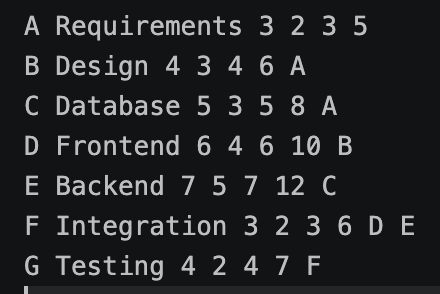
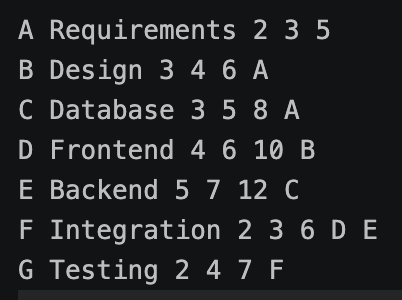
.

diff --git a/slides/presentation.html b/slides/presentation.html
@@ -1038,7 +1038,7 @@ body.notes-open .progress-bar {
                     <p>RACI matrix &mdash; each WBS package has one R/A owner; Integration had three Consulted (cross-module risk)</p>
                 </div>
                 <div class="reveal" style="display: flex; gap: 24px; margin-top: 16px; align-items: baseline;">
-                    <span class="mono-tag" style="opacity: 0.6;">Tuckman: entered sprint at Norming &mdash; C debate (Slide 7) = Storming episode</span>
+                    <span class="mono-tag" style="opacity: 0.6;">Tuckman: entered sprint at Norming &mdash; C debate (Slide 8) = Storming episode</span>
                 </div>
             </div>
             <div class="slide-bottom-rule"></div>
@@ -1224,67 +1224,33 @@ body.notes-open .progress-bar {
         <section class="slide" data-slide="5">
             <div class="slide-frame">
                 <div class="topbar reveal">
-                    <span class="headline">Float gave us rescue capacity</span>
-                    <span class="mono-tag">WBS + sprint schedule</span>
+                    <span class="headline">Allocated by strength, proven by outcome</span>
+                    <span class="mono-tag">expertise-fit + cross-checking</span>
                 </div>
-                <div class="two-col reveal" style="flex: 1;">
-                    <div>
-                        <div class="micro" style="margin-bottom: 16px;">Work Breakdown Structure</div>
-                        <div class="wbs-tree">
-                            <div style="font-family: var(--font-display); font-size: 22px; margin-bottom: 12px;">CPM Application</div>
-                            <div class="critical-item">&nbsp;&nbsp;├── Parser <span style="opacity:0.5">(Samuel)</span></div>
-                            <div class="critical-item">&nbsp;&nbsp;├── Algorithm <span style="opacity:0.5">(Jamie)</span></div>
-                            <div>&nbsp;&nbsp;├── Visualisation <span style="opacity:0.5">(Cole)</span></div>
-                            <div>&nbsp;&nbsp;├── Tests <span style="opacity:0.5">(Samuel)</span></div>
-                            <div class="critical-item">&nbsp;&nbsp;└── Integration <span style="opacity:0.5">(Hamza)</span></div>
-                        </div>
-                        <div class="insight-box" style="margin-top: 24px;">
-                            <p>Critical Path: Parser &rarr; Algorithm &rarr; Integration = 10h sequential</p>
-                        </div>
+                <div class="reflection-grid reveal">
+                    <div class="reflection-card">
+                        <div class="card-name">Cole &mdash; RayLib UI / Rendering</div>
+                        <div class="card-assumption">Why: prior RayLib projects</div>
+                        <div class="card-theory">Early feedback loop &mdash; visual output as a test surface</div>
+                        <div class="card-action">Outcome: fast UI build gave Jamie&rsquo;s CPM logic a visual check, catching mistakes text output alone would have missed</div>
                     </div>
-                    <div>
-                        <div class="micro" style="margin-bottom: 16px;">Sprint Schedule (2 Days)</div>
-                        <div class="gantt">
-                            <div class="gantt-header">
-                                <div></div>
-                                <div class="gantt-time-labels">
-                                    <span>D1 AM</span>
-                                    <span>D1 PM</span>
-                                    <span>D2 AM</span>
-                                    <span>D2 PM</span>
-                                </div>
-                            </div>
-                            <div class="gantt-row">
-                                <div class="gantt-label">Parser (Samuel)</div>
-                                <div class="gantt-bar-container">
-                                    <div class="gantt-bar critical" style="left: 0%; width: 50%;"></div>
-                                </div>
-                            </div>
-                            <div class="gantt-row">
-                                <div class="gantt-label">Algorithm (Jamie)</div>
-                                <div class="gantt-bar-container">
-                                    <div class="gantt-bar critical" style="left: 0%; width: 62%;"></div>
-                                </div>
-                            </div>
-                            <div class="gantt-row">
-                                <div class="gantt-label">Tests (Samuel)</div>
-                                <div class="gantt-bar-container">
-                                    <div class="gantt-bar" style="left: 50%; width: 38%;"></div>
-                                </div>
-                            </div>
-                            <div class="gantt-row">
-                                <div class="gantt-label">Visualisation (Cole)</div>
-                                <div class="gantt-bar-container">
-                                    <div class="gantt-bar" style="left: 0%; width: 80%;"></div>
-                                </div>
-                            </div>
-                            <div class="gantt-row">
-                                <div class="gantt-label">Integration (Hamza)</div>
-                                <div class="gantt-bar-container">
-                                    <div class="gantt-bar critical" style="left: 50%; width: 50%;"></div>
-                                </div>
-                            </div>
-                        </div>
+                    <div class="reflection-card">
+                        <div class="card-name">Jamie &mdash; CPM Implementation</div>
+                        <div class="card-assumption">Why: prior CPM research</div>
+                        <div class="card-theory">MoSCoW &mdash; input UI marked Won&rsquo;t</div>
+                        <div class="card-action">Outcome: flagged input UI as MVP scope creep, argued against consensus, held the team to a minimal MVP</div>
+                    </div>
+                    <div class="reflection-card">
+                        <div class="card-name">Samuel &mdash; Parsing + Tests</div>
+                        <div class="card-assumption">Why: experience writing unit tests</div>
+                        <div class="card-theory">Defect discovery as a quality gate</div>
+                        <div class="card-action">Outcome: tests caught a duration-value edge case; fixed as a team before it reached integration</div>
+                    </div>
+                    <div class="reflection-card">
+                        <div class="card-name">Hamza &mdash; Orchestration</div>
+                        <div class="card-assumption">Why: broad technical understanding suits QA</div>
+                        <div class="card-theory">Cross-module integration check</div>
+                        <div class="card-action">Outcome: spotted Jamie&rsquo;s CPM types diverging from Cole&rsquo;s rendering types, unifying the codebase before it broke</div>
                     </div>
                 </div>
             </div>
@@ -1298,93 +1264,36 @@ body.notes-open .progress-bar {
         <section class="slide" data-slide="6">
             <div class="slide-frame">
                 <div class="topbar reveal">
-                    <span class="headline">Fixed time meant scope had to flex</span>
-                    <span class="mono-tag">iron triangle + MoSCoW</span>
+                    <span class="headline">Three decisions that shaped the team</span>
+                    <span class="mono-tag">decision-making + teamwork evidence</span>
                 </div>
-                <div class="two-col reveal" style="flex: 1;">
-                    <div>
-                        <table class="data-table" style="font-size: 15px;">
-                            <thead>
-                                <tr>
-                                    <th>Decision</th>
-                                    <th>What We Did</th>
-                                    <th>PM Justification</th>
-                                </tr>
-                            </thead>
-                            <tbody>
-                                <tr>
-                                    <td class="serif" style="font-size: 18px;">Language</td>
-                                    <td>C over Python &amp; JS</td>
-                                    <td style="font-size: 15px;">Iron Triangle: accepted higher time for deeper understanding</td>
-                                </tr>
-                                <tr>
-                                    <td class="serif" style="font-size: 18px;">Scope</td>
-                                    <td>MoSCoW prioritisation</td>
-                                    <td style="font-size: 15px;">Fixed time &rarr; scope must flex</td>
-                                </tr>
-                                <tr>
-                                    <td class="serif" style="font-size: 18px;">Estimation</td>
-                                    <td>Expert judgement + bottom-up</td>
-                                    <td style="font-size: 15px;">Each person estimated their own WBS package</td>
-                                </tr>
-                            </tbody>
-                        </table>
-                        <div class="moscow-visual" style="margin-top: 24px;">
-                            <div class="moscow-item must">Must: CPM + Parser</div>
-                            <div class="moscow-item should">Should: Visualisation</div>
-                            <div class="moscow-item could">Could: PERT &mdash; delivered</div>
-                            <div class="moscow-item wont">Won't: GUI Input</div>
-                        </div>
-                        <div class="mono-tag" style="opacity: 0.6; margin-top: 16px;">CHAOS Report: 66% of projects fail; 43% avg cost overrun (Standish Group, 2003)</div>
-                    </div>
-                    <div>
-                        <div class="micro" style="margin-bottom: 16px;">Estimation vs Reality</div>
-                        <!-- Parser -->
-                        <div style="margin-bottom: 28px;">
-                            <div style="display: flex; align-items: baseline; gap: 12px; margin-bottom: 8px;">
-                                <span class="mono-tag">Parser (Samuel)</span>
-                                <span style="font-family: var(--font-display); font-size: 48px; font-weight: 400; color: var(--ink);">+200%</span>
-                            </div>
-                            <div style="position: relative; height: 20px; width: 100%; background: var(--ink-grid);">
-                                <div style="position: absolute; left: 0; top: 0; height: 100%; width: 75%; background: var(--ink);"></div>
-                                <div style="position: absolute; left: 25%; top: -4px; bottom: -4px; width: 2px; background: var(--paper); box-shadow: 0 0 0 1px var(--ink);"></div>
-                            </div>
-                            <div style="display: flex; justify-content: space-between; margin-top: 4px;">
-                                <span class="mono-chrome">est: 1h</span>
-                                <span class="mono-chrome">actual: 3h</span>
-                            </div>
-                        </div>
-                        <!-- Algorithm -->
-                        <div style="margin-bottom: 28px;">
-                            <div style="display: flex; align-items: baseline; gap: 12px; margin-bottom: 8px;">
-                                <span class="mono-tag">Algorithm (Jamie)</span>
-                                <span style="font-family: var(--font-display); font-size: 48px; font-weight: 400; color: var(--ink);">+33%</span>
-                            </div>
-                            <div style="position: relative; height: 20px; width: 100%; background: var(--ink-grid);">
-                                <div style="position: absolute; left: 0; top: 0; height: 100%; width: 100%; background: var(--ink);"></div>
-                                <div style="position: absolute; left: 75%; top: -4px; bottom: -4px; width: 2px; background: var(--paper); box-shadow: 0 0 0 1px var(--ink);"></div>
-                            </div>
-                            <div style="display: flex; justify-content: space-between; margin-top: 4px;">
-                                <span class="mono-chrome">est: 3h</span>
-                                <span class="mono-chrome">actual: 4h</span>
-                            </div>
-                        </div>
-                        <!-- Visualisation -->
-                        <div>
-                            <div style="display: flex; align-items: baseline; gap: 12px; margin-bottom: 8px;">
-                                <span class="mono-tag">Visualisation (Cole)</span>
-                                <span style="font-family: var(--font-display); font-size: 48px; font-weight: 400; color: var(--ink);">+25%</span>
-                            </div>
-                            <div style="position: relative; height: 20px; width: 100%; background: var(--ink-grid);">
-                                <div style="position: absolute; left: 0; top: 0; height: 100%; width: 63%; background: var(--ink);"></div>
-                                <div style="position: absolute; left: 50%; top: -4px; bottom: -4px; width: 2px; background: var(--paper); box-shadow: 0 0 0 1px var(--ink);"></div>
-                            </div>
-                            <div style="display: flex; justify-content: space-between; margin-top: 4px;">
-                                <span class="mono-chrome">est: 2h</span>
-                                <span class="mono-chrome">actual: 2.5h</span>
-                            </div>
-                        </div>
-                    </div>
+                <div class="reveal">
+                    <table class="data-table" style="font-size: 15px;">
+                        <thead>
+                            <tr>
+                                <th>Decision</th>
+                                <th>What We Did</th>
+                                <th>Why It Mattered</th>
+                            </tr>
+                        </thead>
+                        <tbody>
+                            <tr>
+                                <td class="serif" style="font-size: 18px;">Struct design</td>
+                                <td>Split <code>Activity</code> into input and output structs before the CPM pass: <code>Activity</code> &rarr; <code>Activity</code> + <code>CPMResult</code></td>
+                                <td style="font-size: 15px;">Made early, before Jamie and Cole's work could drift apart &mdash; proactive risk management instead of an integration fix later</td>
+                            </tr>
+                            <tr>
+                                <td class="serif" style="font-size: 18px;">File format</td>
+                                <td>Chose raw TXT over JSON</td>
+                                <td style="font-size: 15px;">Weighed flexibility against schedule risk and picked the option that protected the deadline &mdash; simplicity over a nice-to-have</td>
+                            </tr>
+                            <tr>
+                                <td class="serif" style="font-size: 18px;">Language</td>
+                                <td>Stuck with C, despite recognising in hindsight we wouldn&rsquo;t choose it again</td>
+                                <td style="font-size: 15px;">A conscious, team-owned sunk-cost call &mdash; we named the cost openly rather than letting it go unspoken, and committed to it together</td>
+                            </tr>
+                        </tbody>
+                    </table>
                 </div>
             </div>
             <div class="slide-bottom-rule"></div>
@@ -1392,9 +1301,31 @@ body.notes-open .progress-bar {
         </section>
 
         <!-- ===========================
-             SLIDE 7: CHALLENGES
+             SLIDE 7: PROOF OF WORK
              =========================== -->
         <section class="slide" data-slide="7">
+            <div class="slide-frame">
+                <div class="topbar reveal">
+                    <span class="headline">Proof of work</span>
+                    <span class="mono-tag">commits &bull; kanban &bull; PRs</span>
+                </div>
+
+                <div class="reveal" style="flex: 1; display: flex; flex-direction: column; align-items: center; justify-content: center; gap: 24px;">
+                    <img src="../screenshots/commits.png" alt="Commit history" style="display: block; width: auto; height: 420px; max-width: 100%; border: 1.5px solid var(--ink);">
+                    <div style="display: flex; gap: 24px; align-items: flex-start; justify-content: center;">
+                        <img src="../screenshots/kanban.png" alt="Kanban board" style="display: block; width: auto; height: 320px; max-width: 100%; border: 1.5px solid var(--ink);">
+                        <img src="../screenshots/pr_merged.png" alt="Merged pull request" style="display: block; width: auto; height: 320px; max-width: 100%; border: 1.5px solid var(--ink);">
+                    </div>
+                </div>
+            </div>
+            <div class="slide-bottom-rule"></div>
+            <span class="pagenum">007</span>
+        </section>
+
+        <!-- ===========================
+             SLIDE 8: CHALLENGES
+             =========================== -->
+        <section class="slide" data-slide="8">
             <div class="slide-frame">
                 <div class="topbar reveal">
                     <span class="headline">Trust let us resolve conflict</span>
@@ -1409,8 +1340,8 @@ body.notes-open .progress-bar {
                                 &rarr; Prevented integration conflicts entirely
                             </div>
                             <div class="body-lede" style="line-height: 1.7; margin-top: 12px;">
-                                <strong>JSON vs CSV spike</strong> (20 mins)<br>
-                                &rarr; Saved ~2&ndash;3 hours rework
+                                <strong>TXT vs JSON spike</strong> (20 mins)<br>
+                                &rarr; Simpler parser, saved ~2&ndash;3 hours rework
                             </div>
                         </div>
                         <div>
@@ -1450,13 +1381,13 @@ body.notes-open .progress-bar {
                 </div>
             </div>
             <div class="slide-bottom-rule"></div>
-            <span class="pagenum">007</span>
+            <span class="pagenum">008</span>
         </section>
 
         <!-- ===========================
-             SLIDE 8: TEAM REFLECTION
+             SLIDE 9: TEAM REFLECTION
              =========================== -->
-        <section class="slide" data-slide="8">
+        <section class="slide" data-slide="9">
             <div class="slide-frame">
                 <div class="topbar reveal">
                     <span class="headline">We split the work but not the knowledge</span>
@@ -1493,13 +1424,13 @@ body.notes-open .progress-bar {
                 </div>
             </div>
             <div class="slide-bottom-rule"></div>
-            <span class="pagenum">008</span>
+            <span class="pagenum">009</span>
         </section>
 
         <!-- ===========================
-             SLIDE 9: SUMMARY & CLOSING
+             SLIDE 10: SUMMARY & CLOSING
              =========================== -->
-        <section class="slide" data-slide="9">
+        <section class="slide" data-slide="10">
             <div class="slide-frame" style="justify-content: center;">
                 <div class="reveal">
                     <div class="micro" style="margin-bottom: 32px;">Summary</div>
@@ -1536,13 +1467,13 @@ body.notes-open .progress-bar {
                 <div class="pixel-glitch-bar" style="top: 940px; width: 200px; height: 70px;"></div>
             </div>
             <div class="slide-bottom-rule"></div>
-            <span class="pagenum">009</span>
+            <span class="pagenum">010</span>
         </section>
 
         <!-- ===========================
-             SLIDE 10: REFERENCES
+             SLIDE 11: REFERENCES
              =========================== -->
-        <section class="slide" data-slide="10">
+        <section class="slide" data-slide="11">
             <div class="slide-frame">
                 <div class="topbar reveal">
                     <span class="headline">References</span>
@@ -1562,13 +1493,13 @@ body.notes-open .progress-bar {
                 </ol>
             </div>
             <div class="slide-bottom-rule"></div>
-            <span class="pagenum">010</span>
+            <span class="pagenum">011</span>
         </section>
 
         <!-- ===========================
-             SLIDE 11: Q&A PREPARATION
+             SLIDE 12: Q&A PREPARATION
              =========================== -->
-        <section class="slide" data-slide="11">
+        <section class="slide" data-slide="12">
             <div class="slide-frame">
                 <div class="topbar reveal">
                     <span class="headline">Q&amp;A Preparation</span>
@@ -1622,7 +1553,7 @@ body.notes-open .progress-bar {
                 </div>
             </div>
             <div class="slide-bottom-rule"></div>
-            <span class="pagenum">011</span>
+            <span class="pagenum">012</span>
         </section>
 
     </main>
@@ -1827,7 +1758,7 @@ const speakerNotes = [
     },
     {
         speaker: "Samuel | 55 seconds",
-        notes: "We picked roles based on strengths — Jamie knew CPM, Cole had RayLib experience, Hamza was sharp at cross-module issues, and I knew the team well enough to coordinate. The RACI made ownership explicit, especially integration where three people were Consulted.\n\nIn Tuckman's terms, we entered the sprint at Norming — we'd already formed in a previous module and trust was established. The C debate you'll see on Slide 7 was our Storming moment, which actually strengthened agreements.\n\nWhen my parser overran, Cole picked up testing because his float allowed it. The Belbin roles are retrospective — but what mattered was adapting: first stand-up ran 25 minutes, so we halved it. Hamza shifted to cover integration testing once we spotted nobody naturally filled that quality-checking role."
+        notes: "We picked roles based on strengths — Jamie knew CPM, Cole had RayLib experience, Hamza was sharp at cross-module issues, and I knew the team well enough to coordinate. The RACI made ownership explicit, especially integration where three people were Consulted.\n\nIn Tuckman's terms, we entered the sprint at Norming — we'd already formed in a previous module and trust was established. The C debate you'll see on Slide 8 was our Storming moment, which actually strengthened agreements.\n\nWhen my parser overran, Cole picked up testing because his float allowed it. The Belbin roles are retrospective — but what mattered was adapting: first stand-up ran 25 minutes, so we halved it. Hamza shifted to cover integration testing once we spotted nobody naturally filled that quality-checking role."
     },
     {
         speaker: "Jamie | 1 minute",
@@ -1839,11 +1770,15 @@ const speakerNotes = [
     },
     {
         speaker: "Cole | 45 seconds",
-        notes: "We split work using a responsibility-based WBS — chosen because our challenge was four people coding in parallel. As you can see on the schedule, Parser starts Day 1 morning, Algorithm spans Day 1 into Day 2 morning, and Integration fills Day 2. Critical path: Parser, Algorithm, Integration — 10 hours sequential. Visualisation ran in parallel with float — it finishes before integration needs it.\n\nThat float created support capacity. I picked up some of Samuel's edge-case testing because my track was ahead. When Samuel struggled, Jamie pair-programmed on the parser. If everything sat on the critical path, nobody could have helped."
+        notes: "We split work by existing strength, not by drawing straws. I took RayLib UI because I'd built with it before — that speed meant I could give Jamie visual feedback on the CPM logic almost as soon as he had numbers to show, which caught mistakes a text dump wouldn't have.\n\nJamie owned the CPM implementation and used that ownership to push back on us — he flagged input UI as scope creep and argued, against the room, to keep the MVP minimal. That's MoSCoW in practice: input UI got marked Won't.\n\nSamuel's testing experience caught a duration-value edge case before it reached integration. And Hamza, orchestrating across all of our code, spotted that Jamie's CPM types and my rendering types had quietly diverged — he unified them before it became a merge conflict none of us could untangle."
     },
     {
         speaker: "Hamza | 1 minute",
-        notes: "Three decisions to highlight. Language: we chose C over Python — an Iron Triangle trade-off. Fixed time meant scope had to flex, and we accepted higher time cost for deeper understanding. Estimation: each person estimated their own package using expert judgement and bottom-up decomposition.\n\nWe estimated the parser at one hour. Actual: three — 200% overrun. The CHAOS report shows 66% of projects fail, often from exactly this kind of estimation error. When it overran, we re-estimated using PERT three-point estimates. That told us visualisation was achievable and, once the core was stable, PERT mode was too — so MoSCoW did what it's meant to: protect the Musts first, then pull the Could back in once there was room.\n\nBy Day 1 end we were clearly behind. We protected CPM and Parser, confirmed Visualisation was still achievable, and by Day 2 had float enough to land PERT mode as well."
+        notes: "Three decisions shaped the codebase. First, struct design: we split Activity into an input struct and a CPMResult output struct before the CPM pass even ran, so the parser and the renderer could change independently without touching each other's data.\n\nSecond, file format: we chose raw TXT over JSON. That simplified the parsing module significantly and cut out a whole category of malformed-structure bugs — less code in C means fewer places for it to go wrong.\n\nThird, language: we stuck with C, and we'll say plainly — in hindsight, we wouldn't choose it again. But by the point that became clear, too much of the codebase was already built on it to justify a rewrite, so we made that call consciously and delegated refactors to whoever had capacity. All three were group decisions, not one person's call, and that's the teamwork evidence for this slide."
+    },
+    {
+        speaker: "None | Not narrated",
+        notes: "This slide is not narrated. It exists as evidence of process — commit history, kanban board, and a merged PR — supporting the decisions and workflow described on the surrounding slides."
     },
     {
         speaker: "Hamza | 1 minute 5 seconds",